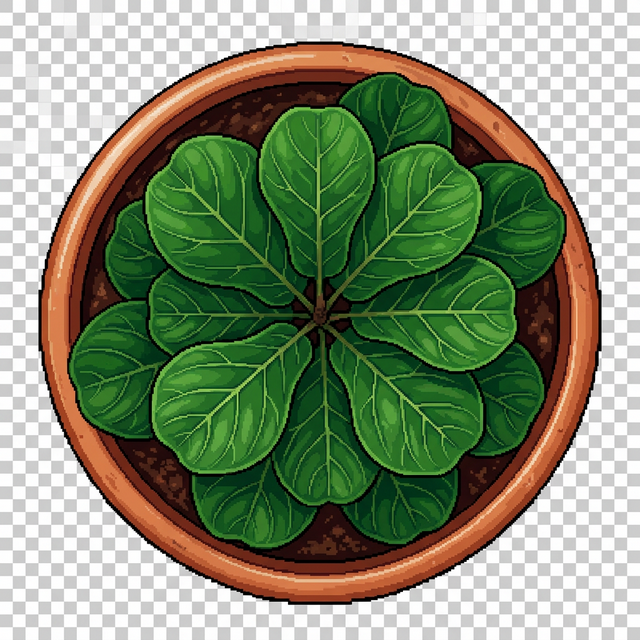
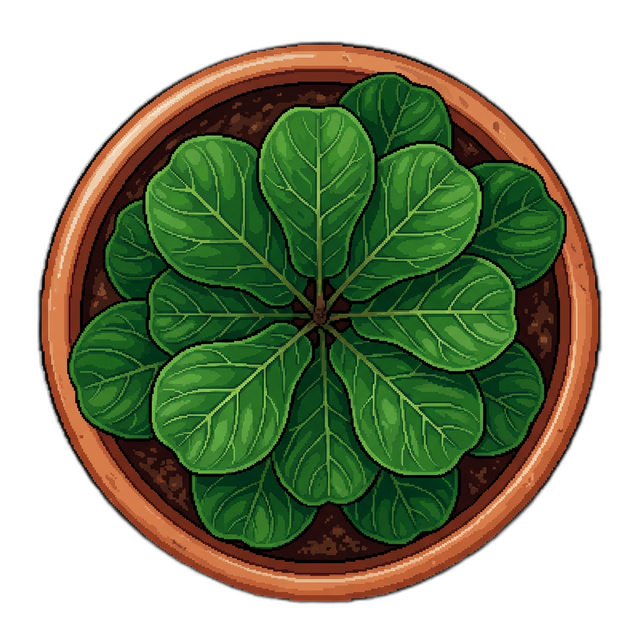
feat: remove prop backgrounds with rembg AI + add drop shadow rendering

Changed region(s): [[0.0, 0.0, 1.0, 1.0]]

diff --git a/TRITUENHANTAO/game.js b/TRITUENHANTAO/game.js
@@ -1504,7 +1504,18 @@
           else if (p.type === 'vet_xray') img = images.propVetXray;
           else if (p.type === 'vet_cabinet') img = images.propVetCabinet;
           
-          if (img) ctx.drawImage(img, x, y, CELL_SIZE, CELL_SIZE);
+          if (img) {
+            // Subtle drop shadow beneath the prop
+            ctx.save();
+            ctx.fillStyle = 'rgba(0,0,0,0.18)';
+            ctx.beginPath();
+            ctx.ellipse(x + CELL_SIZE / 2, y + CELL_SIZE - 3, CELL_SIZE * 0.38, 4, 0, 0, Math.PI * 2);
+            ctx.fill();
+            // Draw prop with slight padding
+            const pad = 2;
+            ctx.drawImage(img, x + pad, y + pad, CELL_SIZE - pad * 2, CELL_SIZE - pad * 2);
+            ctx.restore();
+          }
         }
       }
       if (activeDoors) {
